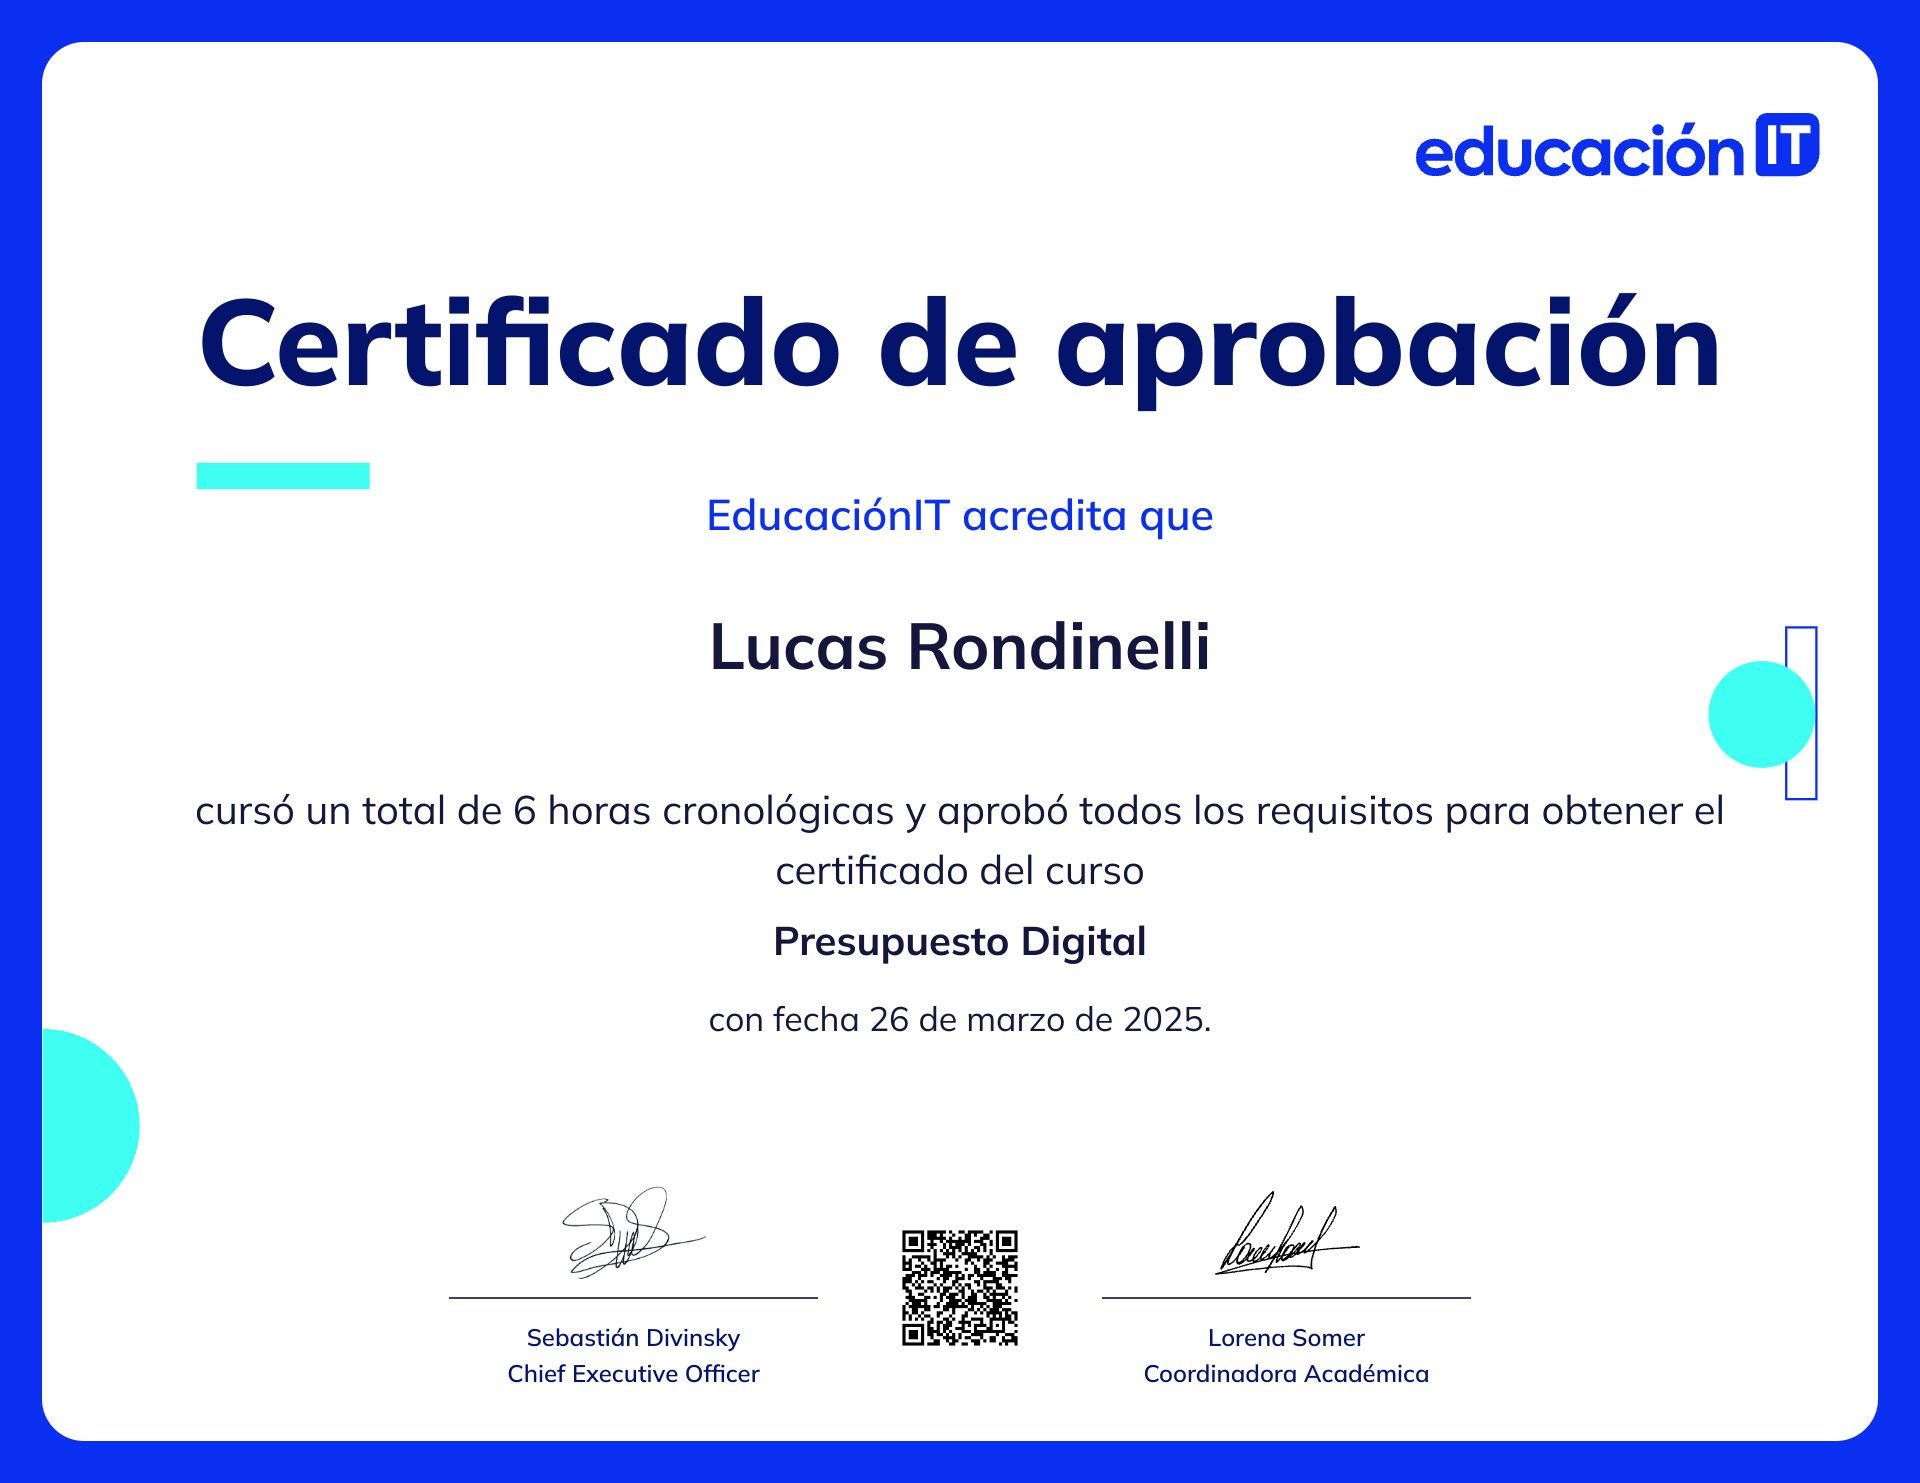
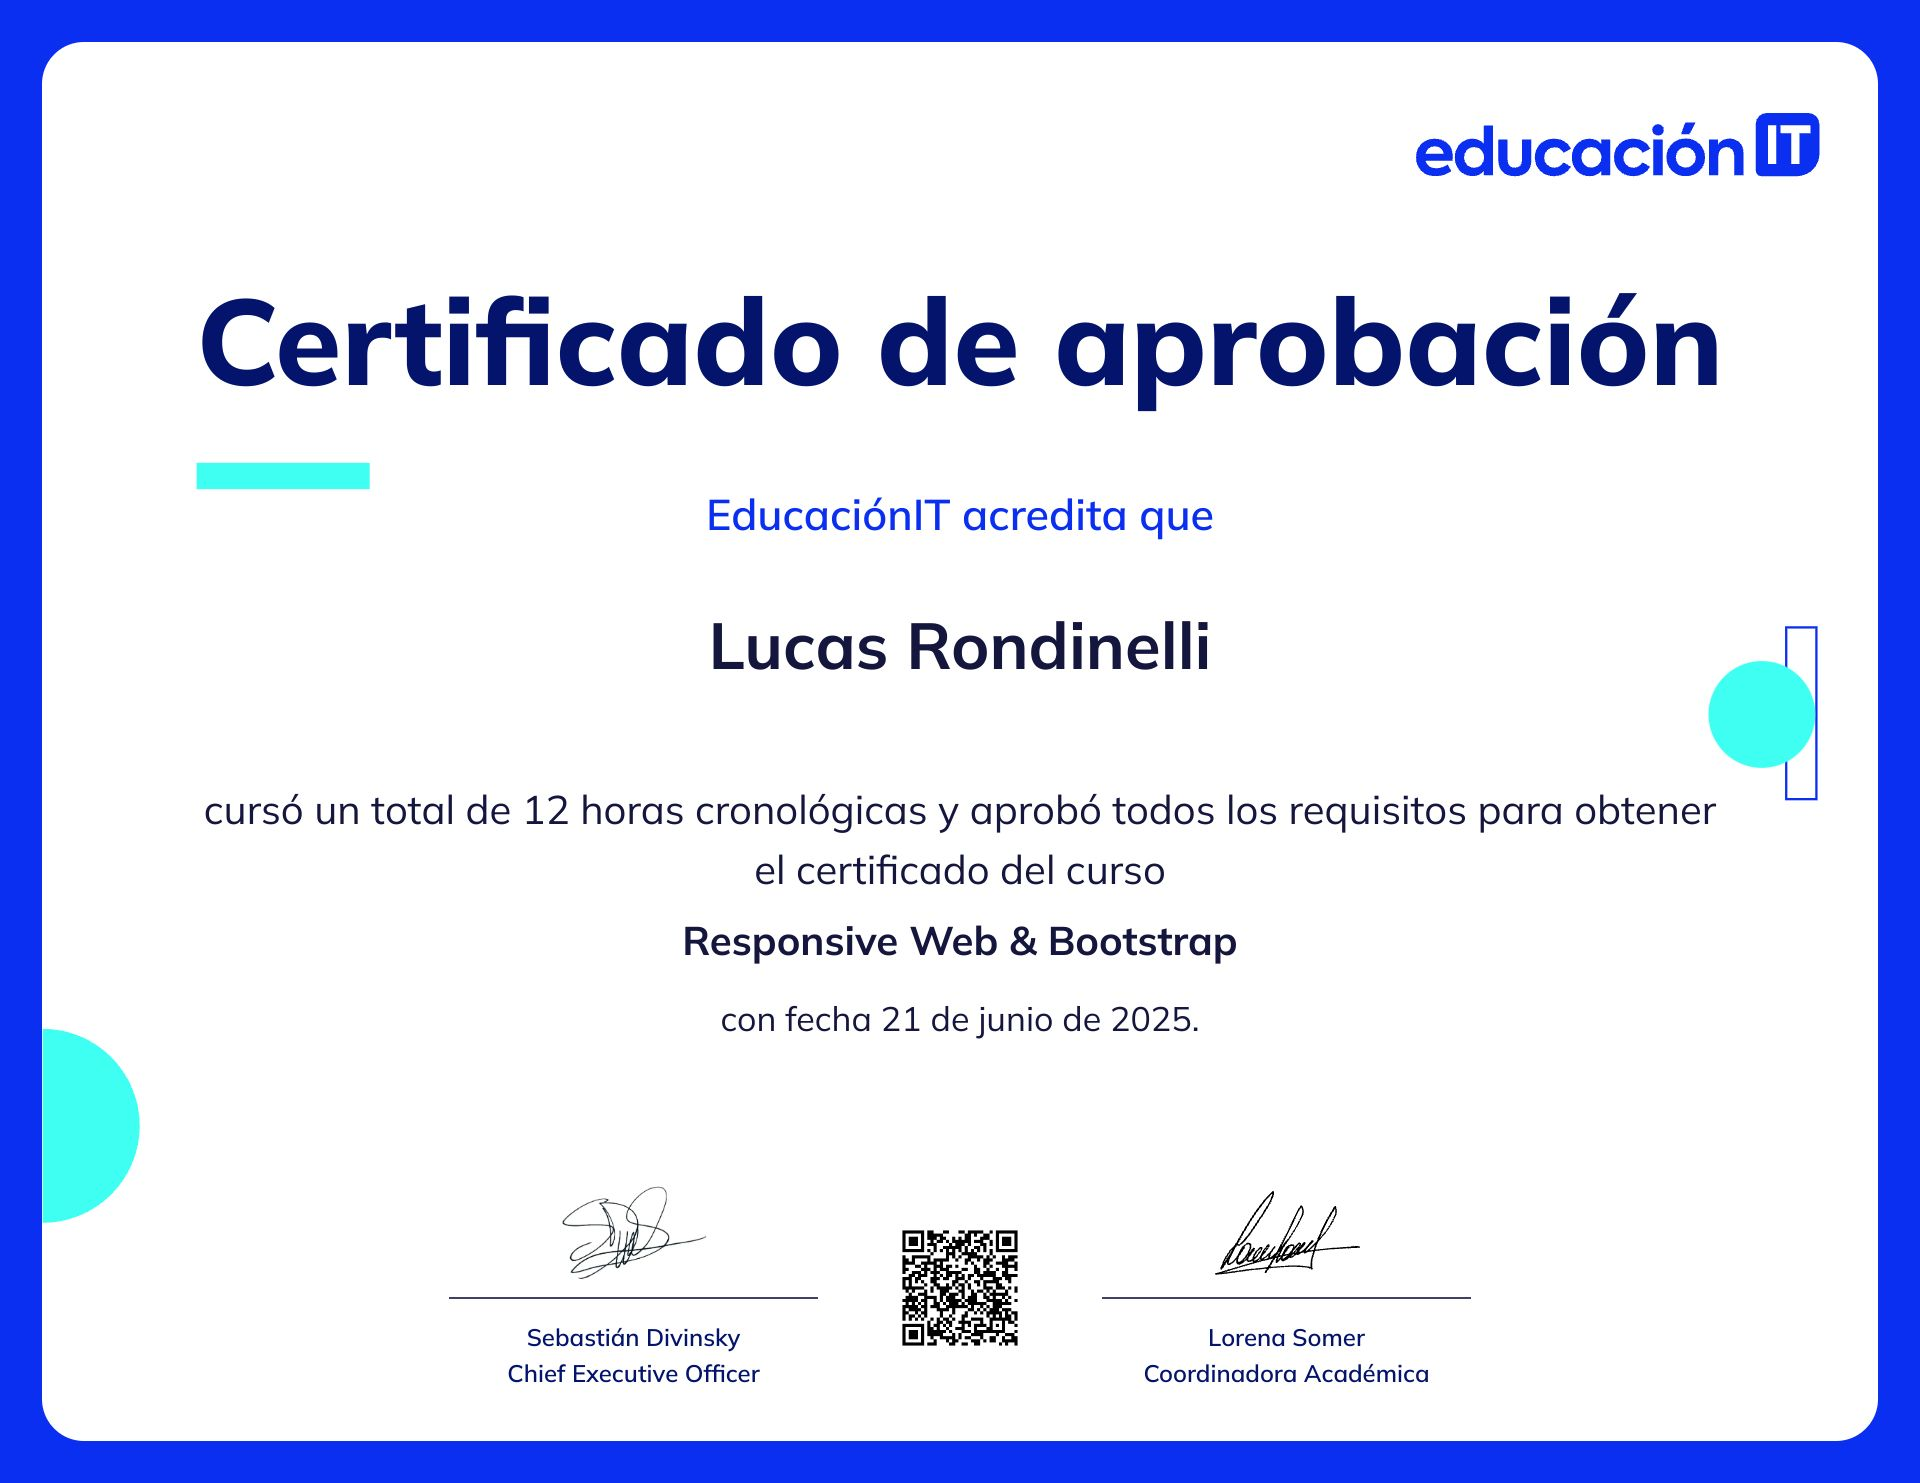
agregado de certificado

Changed region(s): [[0.0938, 0.5273, 0.9062, 0.6514], [0.375, 0.6824, 0.625, 0.7134], [0.4688, 0.8375, 0.5, 0.8995]]

diff --git a/components/Studies.tsx b/components/Studies.tsx
@@ -22,17 +22,21 @@ const certifications = [
       /* "Certificación obtenida tras completar la carrera de Front End Web Developer provista por EducacionIT." */ "Último certificado adquirido",
     image: "/certifications/UltimoEduIT.jpeg",
     certificateLink:
-      "https://www.educacionit.com/perfil/lucas-rondinelli-974361/certificado/71404",
-    linkedinLink:
-      "https://www.linkedin.com/posts/lucas-rondinelli-9b83a9267_educacionit-frontendwebdeveloper-gitdesarrollocolaborativo-activity-7225601242704601089-YV32?utm_source=share&utm_medium=member_desktop",
+      "https://www.educacionit.com/perfil/lucas-rondinelli-974361/certificado/76136",
+    /* linkedinLink:
+      "https://www.educacionit.com/perfil/lucas-rondinelli-974361/certificado/76136", */
     subCertifications: [
+      {
+        title: "Responsive Web Bootstrap",
+        date: "Junio 2025",
+        certificateLink:
+          "https://www.educacionit.com/perfil/lucas-rondinelli-974361/certificado/76136",
+      },
       {
         title: "Presupuesto Digital",
         date: "Marzo 2025",
         certificateLink:
           "https://www.educacionit.com/perfil/lucas-rondinelli-974361/certificado/76143?_gl=1*xj21o0*_ga*MjEyODY2MjUzNS4xNzQxODkxNzE3*_ga_R8GR8LL2B8*MTc0MzAwOTMzMS43LjEuMTc0MzAxMTkwOC40Ni4xLjE0MDE5OTIxNzI.",
-        /* linkedinLink:
-          "https://www.linkedin.com/posts/lucas-rondinelli-9b83a9267_educacionit-frontendwebdeveloper-gitdesarrollocolaborativo-activity-7225601242704601089-YV32?utm_source=share&utm_medium=member_desktop", */
       },
       {
         title: "Javascript Desarrollador Avanzado",
@@ -197,15 +201,17 @@ export default function Studies() {
                 <FileCode className="size-4" />
                 Certificado
               </a>
-              <a
-                href={certification.linkedinLink}
-                target="_blank"
-                rel="noopener noreferrer"
-                className="publicCertification inline-flex items-center gap-2 px-4 py-2 bg-primary text-white rounded-md hover:bg-primary/90 transition-colors w-fit sm:w-auto"
-              >
-                <Linkedin className="size-4" />
-                <p> Publicación </p>
-              </a>
+              {certification.linkedinLink && (
+                <a
+                  href={certification.linkedinLink}
+                  target="_blank"
+                  rel="noopener noreferrer"
+                  className="publicCertification inline-flex items-center gap-2 px-4 py-2 bg-primary text-white rounded-md hover:bg-primary/90 transition-colors w-fit sm:w-auto"
+                >
+                  <Linkedin className="size-4" />
+                  <p> Publicación </p>
+                </a>
+              )}
               <div className="moreCertifications w-full">
                 {certification.subCertifications && (
                   <Button
@@ -214,11 +220,11 @@ export default function Studies() {
                   >
                     {openCertification === index ? (
                       <>
-                        <Minus className="size-4" />
+                        <Minus className="size-4 text-white" />
                       </>
                     ) : (
                       <>
-                        <Plus className="size-4" />
+                        <Plus className="size-4 text-white" />
                       </>
                     )}
                   </Button>
@@ -232,47 +238,51 @@ export default function Studies() {
                 ...(openCertification === index ? openStyles : {}),
               }}
             >
-              {certification.subCertifications &&
-                openCertification === index && (
-                  <div className="mt-4">
-                    <h4 className="text-lg font-bold text-gray-800 dark:text-gray-100">
-                      Certificados de Cursos:
-                    </h4>
-                    <ul className="subCertList list-disc ml-4 text-gray-700 dark:text-gray-400">
-                      {certification.subCertifications.map(
-                        (subCert, subIndex) => (
-                          <li key={subIndex} className="mt-5">
-                            <p>
-                              <strong>{subCert.title}</strong> - {subCert.date}
-                            </p>
-                            <div className="buttonsSubCertification flex flex-col sm:flex-row gap-2 mt-2 w-fit">
+              {certification.subCertifications && (
+                <div
+                  className="mt-4"
+                  style={{
+                    display: openCertification === index ? "block" : "none",
+                  }}
+                >
+                  <h4 className="text-lg font-bold text-gray-800 dark:text-gray-100">
+                    Certificados de Cursos:
+                  </h4>
+                  <ul className="subCertList list-disc ml-4 text-gray-700 dark:text-gray-400">
+                    {certification.subCertifications.map(
+                      (subCert, subIndex) => (
+                        <li key={subIndex} className="mt-5">
+                          <p>
+                            <strong>{subCert.title}</strong> - {subCert.date}
+                          </p>
+                          <div className="buttonsSubCertification flex flex-col sm:flex-row gap-2 mt-2 w-fit">
+                            <a
+                              href={subCert.certificateLink}
+                              target="_blank"
+                              rel="noopener noreferrer"
+                              className="subCertification inline-flex items-center gap-2 px-4 py-2 bg-primary text-white rounded-md hover:bg-primary/90 transition-colors w-full sm:w-auto"
+                            >
+                              <FileCode className="size-4" />
+                              Certificado
+                            </a>
+                            {subCert.linkedinLink && (
                               <a
-                                href={subCert.certificateLink}
+                                href={subCert.linkedinLink}
                                 target="_blank"
                                 rel="noopener noreferrer"
                                 className="subCertification inline-flex items-center gap-2 px-4 py-2 bg-primary text-white rounded-md hover:bg-primary/90 transition-colors w-full sm:w-auto"
                               >
-                                <FileCode className="size-4" />
-                                Certificado
+                                <Linkedin className="size-4" />
+                                <p> Publicación </p>
                               </a>
-                              {subCert.linkedinLink && (
-                                <a
-                                  href={subCert.linkedinLink}
-                                  target="_blank"
-                                  rel="noopener noreferrer"
-                                  className="subCertification inline-flex items-center gap-2 px-4 py-2 bg-primary text-white rounded-md hover:bg-primary/90 transition-colors w-full sm:w-auto"
-                                >
-                                  <Linkedin className="size-4" />
-                                  <p> Publicación </p>
-                                </a>
-                              )}
-                            </div>
-                          </li>
-                        )
-                      )}
-                    </ul>
-                  </div>
-                )}
+                            )}
+                          </div>
+                        </li>
+                      )
+                    )}
+                  </ul>
+                </div>
+              )}
             </div>
           </div>
         </article>
